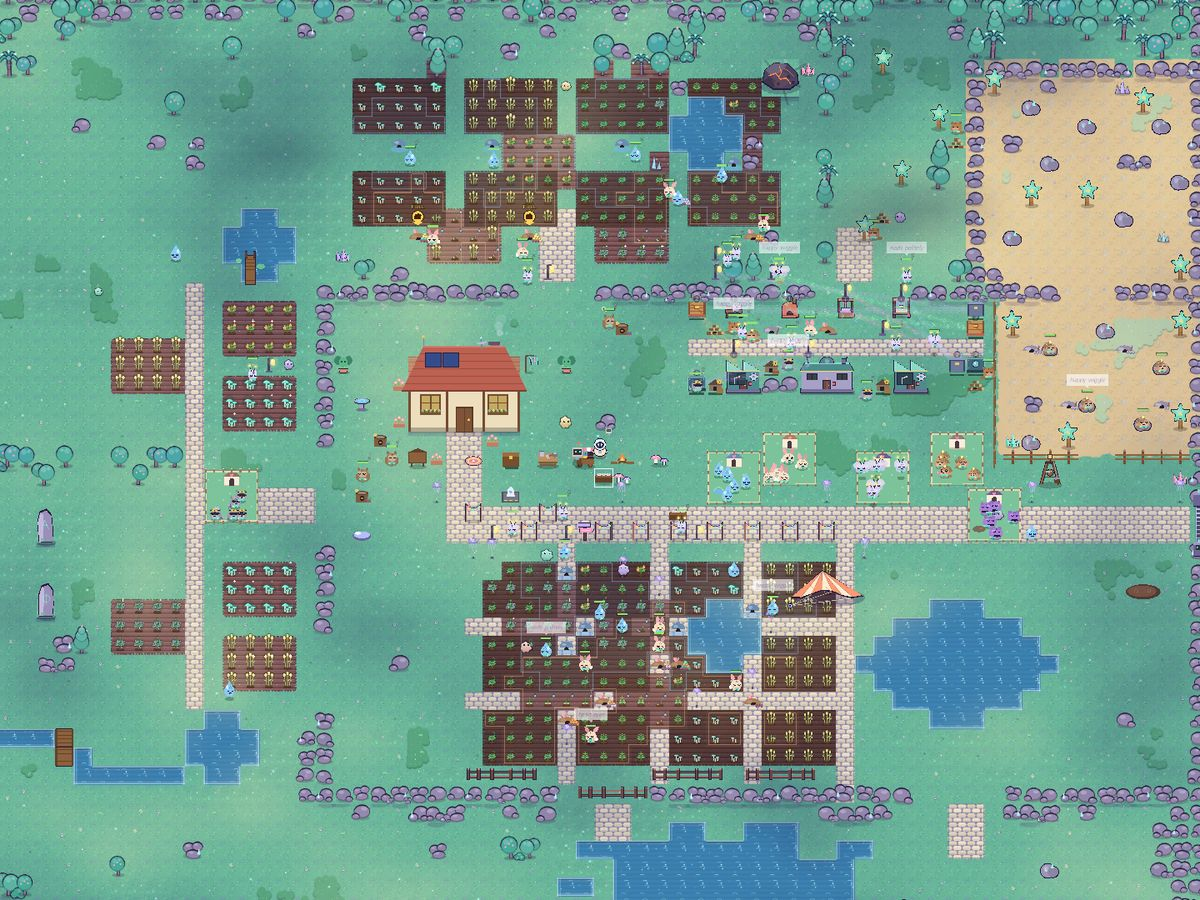
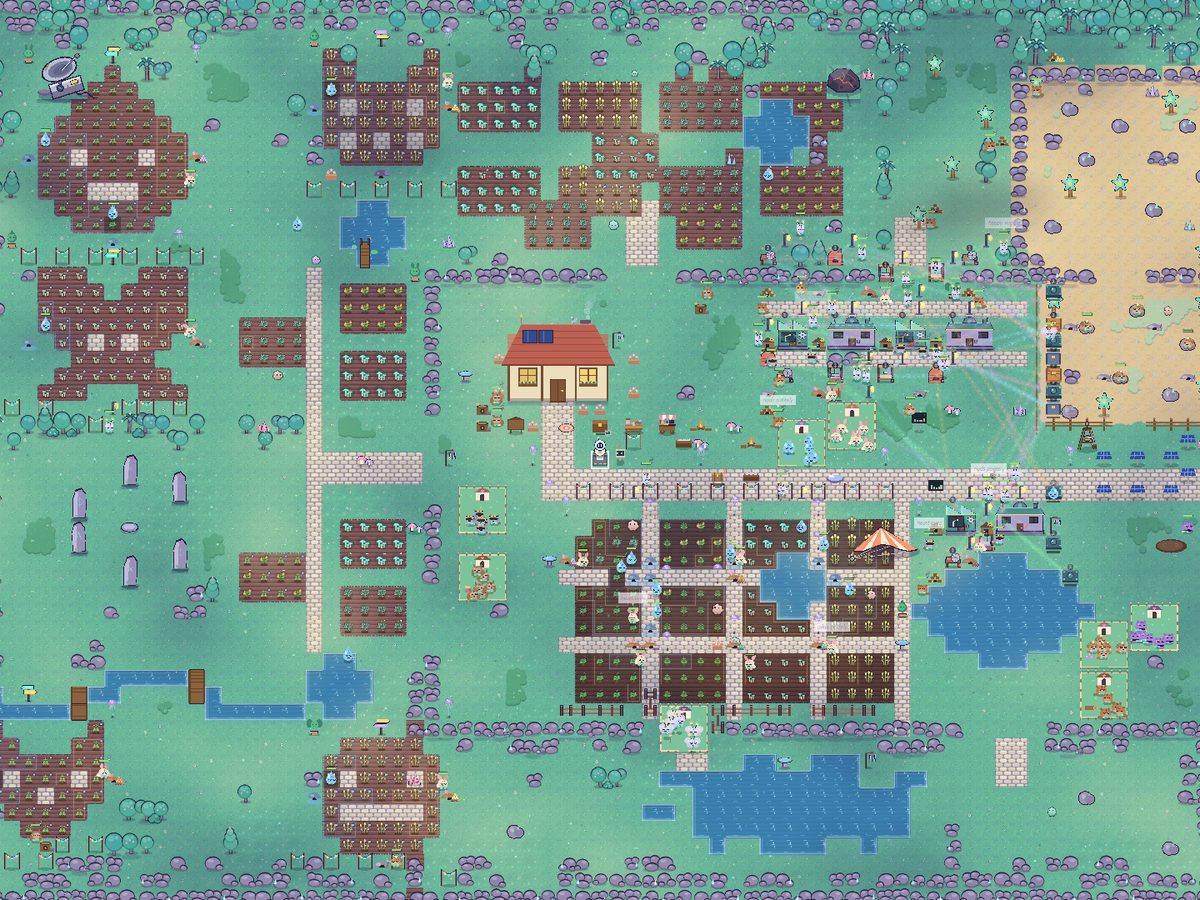
Frontiers Celestia: bigger endgame snapshot and a classified town photo

diff --git a/frontiers-celestia/index.html b/frontiers-celestia/index.html
@@ -431,6 +431,44 @@ a { color: var(--amber); }
 }
 .polaroid figcaption b { display: block; color: #c9542f; font-size: 1.45rem; }
 .snap-note { margin-top: 34px; text-align: center; color: var(--moss); font-size: 1.25rem; }
+.sr-only { position: absolute; width: 1px; height: 1px; margin: -1px; overflow: hidden; clip: rect(0 0 0 0); white-space: nowrap; }
+/* the fourth photo: classified */
+.secret-wrap { display: grid; justify-items: center; margin-top: clamp(40px, 6vw, 70px); }
+.polaroid.secret { width: min(100%, 520px); }
+.polaroid.secret:hover { transform: translateY(-4px) scale(1.02); }
+.polaroid.secret .snap img { filter: saturate(0.85); }
+.tape {
+  position: absolute; left: -14%; width: 128%; height: 34px; z-index: 3; overflow: hidden; pointer-events: none;
+  display: flex; align-items: center; white-space: nowrap;
+  background:
+    repeating-linear-gradient(-45deg, #1f1828 0 12px, transparent 12px 24px) left / 46px 100% no-repeat,
+    repeating-linear-gradient(-45deg, #1f1828 0 12px, transparent 12px 24px) right / 46px 100% no-repeat,
+    #ffd94d;
+  box-shadow: 0 6px 14px rgba(0, 0, 0, 0.4);
+  font-family: var(--f-mono); font-weight: 700; font-size: 0.82rem; letter-spacing: 0.14em; color: #1f1828;
+}
+.tape i { font-style: normal; padding-left: 56px; }
+.tape.t1 { top: 30%; rotate: -14deg; }
+.tape.t2 { top: 54%; rotate: 9deg; background-color: #ffcf3f; }
+.classified {
+  position: absolute; z-index: 4; right: 8%; top: 12%; rotate: 12deg; pointer-events: none;
+  font-family: var(--f-mono); font-weight: 700; font-size: clamp(1rem, 0.8rem + 1vw, 1.5rem); letter-spacing: 0.16em;
+  color: #e0384f; border: 3px solid #e0384f; border-radius: 6px; padding: 2px 10px; opacity: 0.85;
+  background: rgba(255, 250, 240, 0.25); mix-blend-mode: multiply;
+}
+.polaroid.secret figcaption { font-size: 1.45rem; }
+.polaroid.secret figcaption b { font-family: var(--f-mono); font-size: 0.85rem; letter-spacing: 0.18em; color: #a0603a; text-transform: uppercase; }
+.bar { position: relative; }
+.bar::after {
+  content: ""; position: absolute; left: -2px; right: 6px; top: 60%; height: 0.48em; translate: 0 -50%;
+  background: #1f1828; border-radius: 3px; rotate: -3deg; opacity: 0.94;
+}
+.bar.part::after { left: 18%; right: -2px; rotate: 2deg; height: 0.42em; top: 54%; }
+.motion .polaroid.secret.in .tape { animation: tape-in 0.5s cubic-bezier(.2, .8, .2, 1) both; }
+.motion .polaroid.secret.in .tape.t2 { animation-delay: 0.18s; }
+.motion .polaroid.secret.in .classified { animation: stamp-in 0.35s cubic-bezier(.3, 1.6, .5, 1) 0.5s both; }
+@keyframes tape-in { from { clip-path: inset(0 100% 0 0); } to { clip-path: inset(0 0 0 0); } }
+@keyframes stamp-in { from { opacity: 0; transform: scale(2.2); } to { opacity: 0.85; transform: none; } }
 .lightbox { padding: 0; border: 0; background: transparent; max-width: min(96vw, 1440px); max-height: 92vh; overflow: visible; }
 .lightbox::backdrop { background: rgba(10, 8, 22, 0.86); }
 .lightbox img { display: block; max-width: min(96vw, 1440px); max-height: 92vh; width: auto; height: auto; border: 10px solid #fffaf0; border-radius: 3px; box-shadow: 0 30px 80px rgba(0, 0, 0, 0.6); }
@@ -954,17 +992,29 @@ a { color: var(--amber); }
       </figure>
       <figure class="polaroid slide" style="--r:2.5deg; --i:1">
         <span class="pin" aria-hidden="true"></span>
-        <button type="button" class="snap" data-full="shots/2_a_few_friends.jpg" aria-label="Enlarge: a few friends in">
-          <img src="shots/2_a_few_friends.jpg" alt="A few days in: the plots are growing, a patched-up tent, and the first critters have moved in to help." loading="lazy" width="1200" height="900">
+        <button type="button" class="snap" data-full="shots/2_settling_in.jpg" aria-label="Enlarge: settling in">
+          <img src="shots/2_settling_in.jpg" alt="Settling in: a paved trail and lamps, six crop blocks with critter crews, a sawmill and the first chests." loading="lazy" width="1200" height="900">
         </button>
-        <figcaption><b>a few friends in</b> someone else waters now</figcaption>
+        <figcaption><b>settling in</b> the critters run the fields now</figcaption>
       </figure>
       <figure class="polaroid slide" style="--r:-1.5deg; --i:2">
         <span class="pin" aria-hidden="true"></span>
         <button type="button" class="snap" data-full="shots/3_endgame.jpg" aria-label="Enlarge: the endgame">
-          <img src="shots/3_endgame.jpg" alt="Late game: a cottage, fenced fields of four crops each tended by critters, playpens full of critters, a machine yard feeding chests, and the quarry being worked." loading="lazy" width="1200" height="900">
+          <img src="shots/3_endgame.jpg" alt="Late game, the whole homestead: fields carved into giant critter faces growing each one's favorite crop, a tidy crop grid, a huge machine yard with flight routes into a wall of vaults, a solar farm, playpens and the quarry." loading="lazy" width="1200" height="900">
         </button>
-        <figcaption><b>a whole lot later</b> every chore, handled</figcaption>
+        <figcaption><b>a whole lot later</b> every chore, handled (and the fields have faces)</figcaption>
+      </figure>
+    </div>
+    <div class="secret-wrap">
+      <figure class="polaroid secret slide" style="--r:2deg; --i:0">
+        <span class="pin" aria-hidden="true"></span>
+        <button type="button" class="snap" data-full="shots/4_haven.jpg" aria-label="Enlarge: a classified photo">
+          <img src="shots/4_haven.jpg" alt="A slightly blurry, classified photo of a little town with a town hall, shops, homes, farms and people in the plaza." loading="lazy" width="1200" height="900">
+        </button>
+        <span class="tape t1" aria-hidden="true"><i>TOP SECRET · DO NOT CROSS · TOP SECRET · DO NOT CROSS · TOP SECRET · DO NOT CROSS ·</i></span>
+        <span class="tape t2" aria-hidden="true"><i>CHARTER EYES ONLY · CLASSIFIED · CHARTER EYES ONLY · CLASSIFIED · CHARTER EYES ONLY ·</i></span>
+        <span class="classified" aria-hidden="true">REDACTED</span>
+        <figcaption><b>file #7-H</b> <span class="sr-only">build a community</span><span aria-hidden="true"><span class="bar">build</span> a <span class="bar part">commu</span>nity</span></figcaption>
       </figure>
     </div>
     <p class="snap-note hand">real screenshots, straight from the game ✦ tap one to look closer</p>
